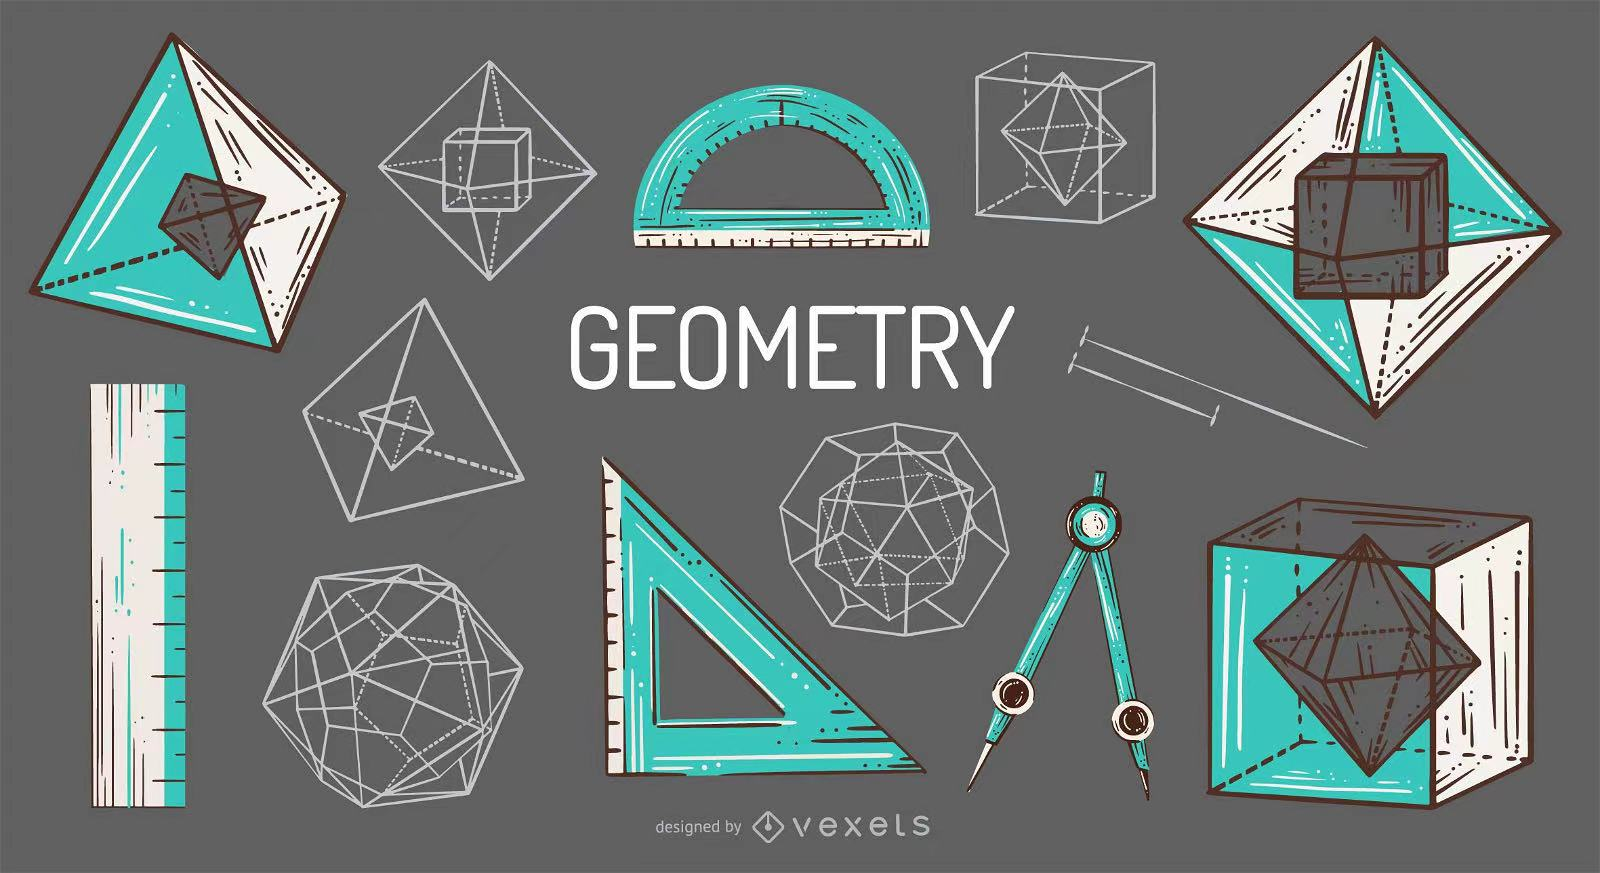
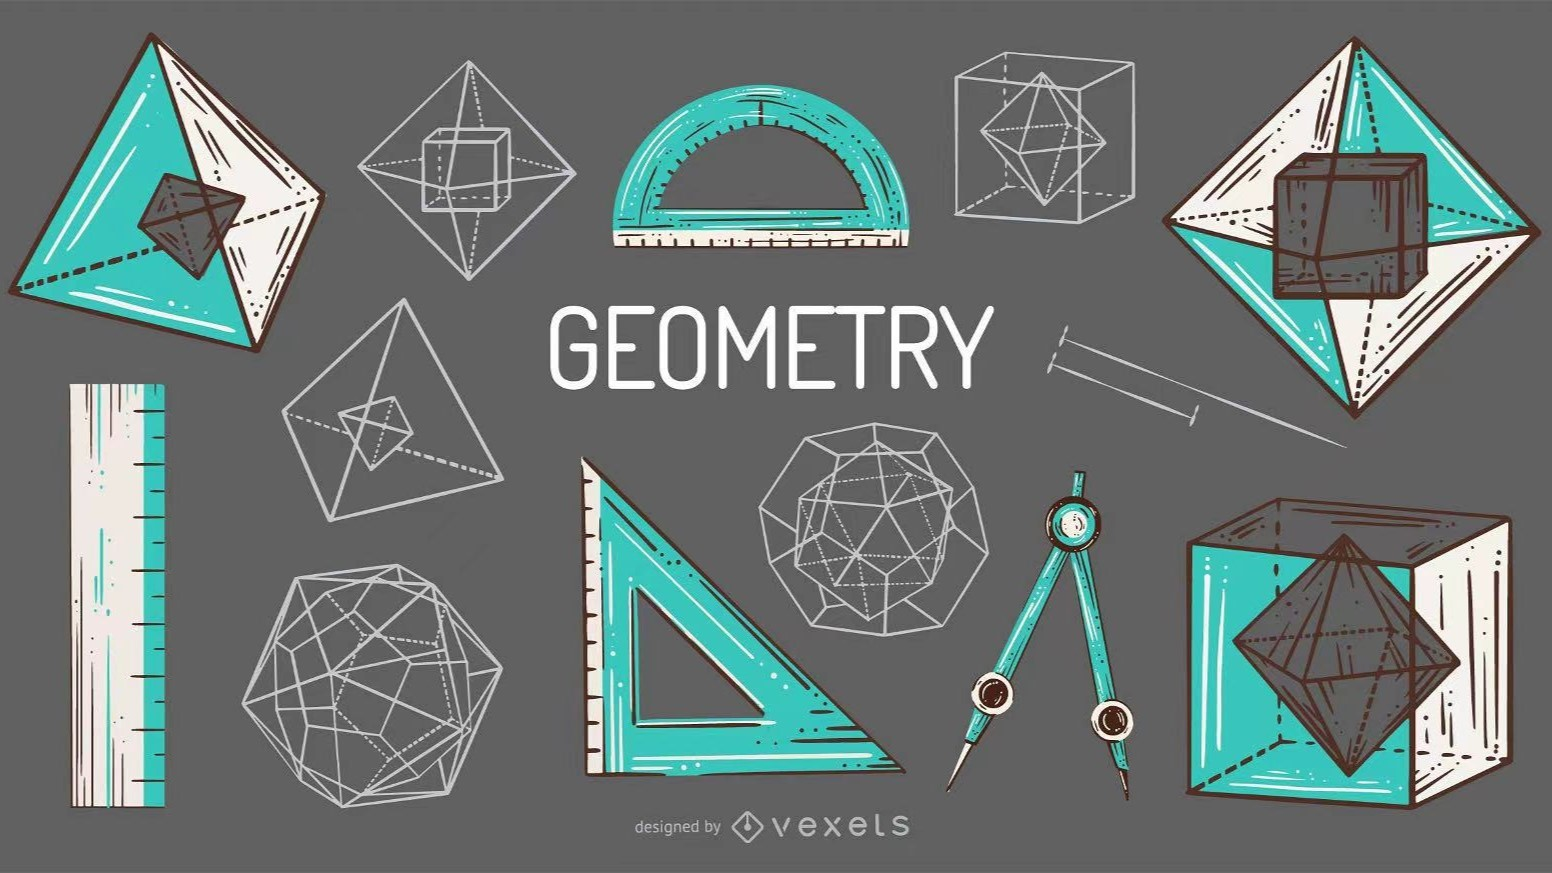
added double angle proof, fixed image ratio

diff --git a/_trigonometry/double_angle.md b/_trigonometry/double_angle.md
@@ -1,18 +1,53 @@
 ---
 title:  "Double Angle Theorem"
 date: 2024-6-27 17:22:24 +0800
-categories: 
+categories:
+toc_sticky: true
 ---
-Theorem: 
+## Theorem 
+
+$$
+\begin{align}
+\sin2\alpha &= 2\sin\alpha\cos\alpha \\
+
+\cos2\alpha &= \cos^2\alpha-\sin^2\alpha \\
+&= 2\cos^2\alpha - 1 \\ 
+&= 1 - 2\sin^2\alpha\\
+
+\tan2\alpha &= \frac{2\tan\alpha}{1-\tan^2\alpha}\\
+\end{align}
+$$
+
+## Proof 1
+
+### Step 1
+ Use [**Angle Addition Formula**](../angle_addition)
+
+$$
+\begin{align}
+\notag\sin(\alpha + \alpha) &= \sin\alpha\cos\alpha + \sin\alpha\cos\alpha \\
+\tag{1}\sin2\alpha &= 2\sin\alpha\cos\alpha \\
+\end{align} 
+\\
+
+
+\\
+\begin{align}
+\notag\cos(\alpha + \alpha) &= \cos\alpha\cos\alpha - \sin\alpha\sin\alpha \\
+\tag{2}\cos2\alpha &= \cos^2\alpha - \sin^2\alpha \\
+\end{align}
+$$
+
+### Step 2
+Use [**Pythagorean Identity**](../pythogorean_identity)
 
 $$
 \begin{align*}
-\sin(2\alpha) &= 2\sin\alpha\cos\alpha \\
-
-\cos(2\alpha) &= \cos^2\alpha-\sin^2\alpha \\
-&= 2\cos^2 - 1 \\ 
-&= 1 - 2\sin^2\alpha\\
-
-\tan(2\alpha) &= \frac{2\tan\alpha}{1-\tan^2\alpha}\\
+\notag\cos2\alpha &= \cos^2\alpha - (1-\cos^2\alpha) \\
+\tag{3}&= 2\cos^2\alpha - 1 \\ 
+\\
+\notag\cos2\alpha &= (1 -\sin^2\alpha) - \sin^2\alpha \\
+\tag{4}&= 1 - 2\sin^2\alpha\\
 \end{align*}
 $$
+

diff --git a/_pages/snoopy.md b/_pages/snoopy.md
@@ -5,6 +5,8 @@ permalink: /snoopy/ #everything in that url has the contents here
 collection: snoopy #in config.yml, says everything in _proofs is in collection called proofs
 ---
 <!-- <img src="img/professor.png" class="img-responsive" alt=""> -->
-<div id="professor">
+<!-- <div id="professor">
     <img src="professor.png" >
-</div>
+</div> -->
+
+![Image](professor.png)

diff --git a/_number_theory/fermats_little.md b/_number_theory/fermats_little.md
@@ -1,5 +1,10 @@
 ---
 title:  "Fermats Little Theorem"
 date: 2024-6-27 17:22:24 +0800
-categories: 
+categories: [modular arithmetic]
 ---
+
+
+$$
+    a^p \equiv a \pmod{p}
+$$

diff --git a/_trigonometry/angle_addition.md b/_trigonometry/angle_addition.md
@@ -15,3 +15,4 @@ $$
 \tan(\alpha\pm\beta) &= \frac{\tan\alpha \pm \tan\beta}{1\mp\tan\alpha\tan\beta} \\
 \end{align*}
 $$
+

diff --git a/_number_theory/euclidean_algorithm.md b/_number_theory/euclidean_algorithm.md
@@ -1,0 +1,6 @@
+---
+title: Euclidean Algorithm
+categories: gcd
+---
+
+$$
